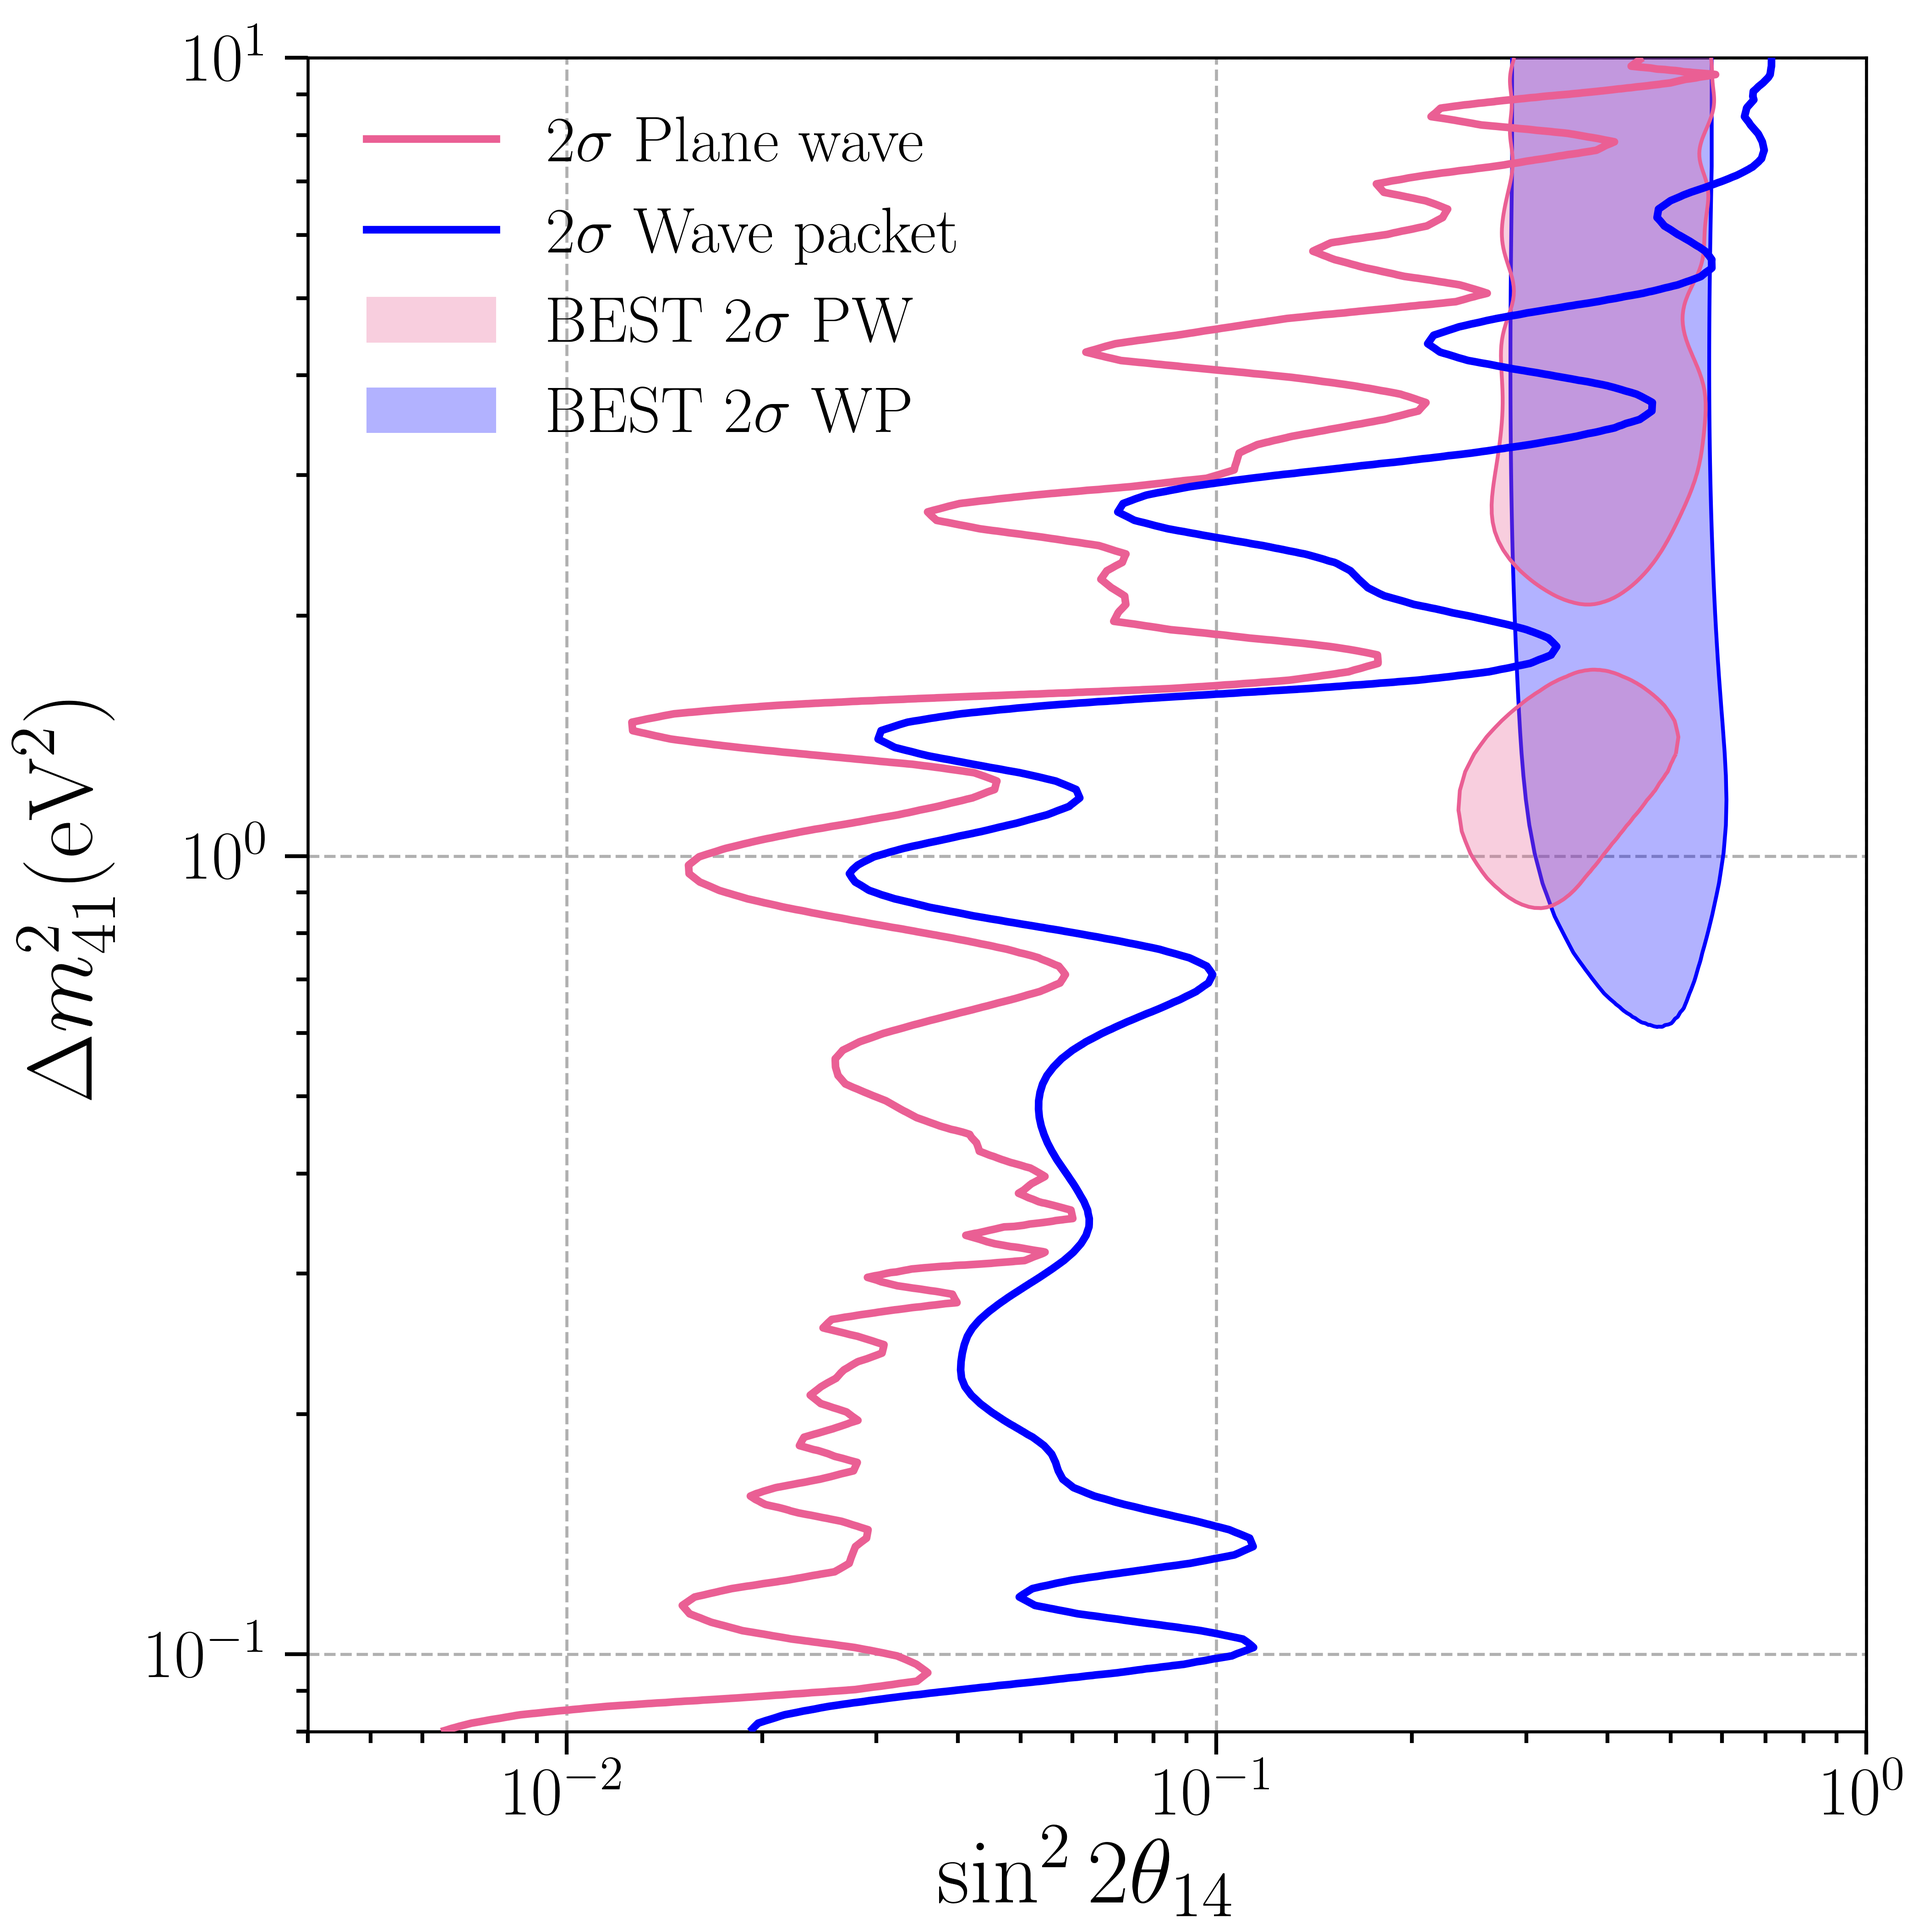
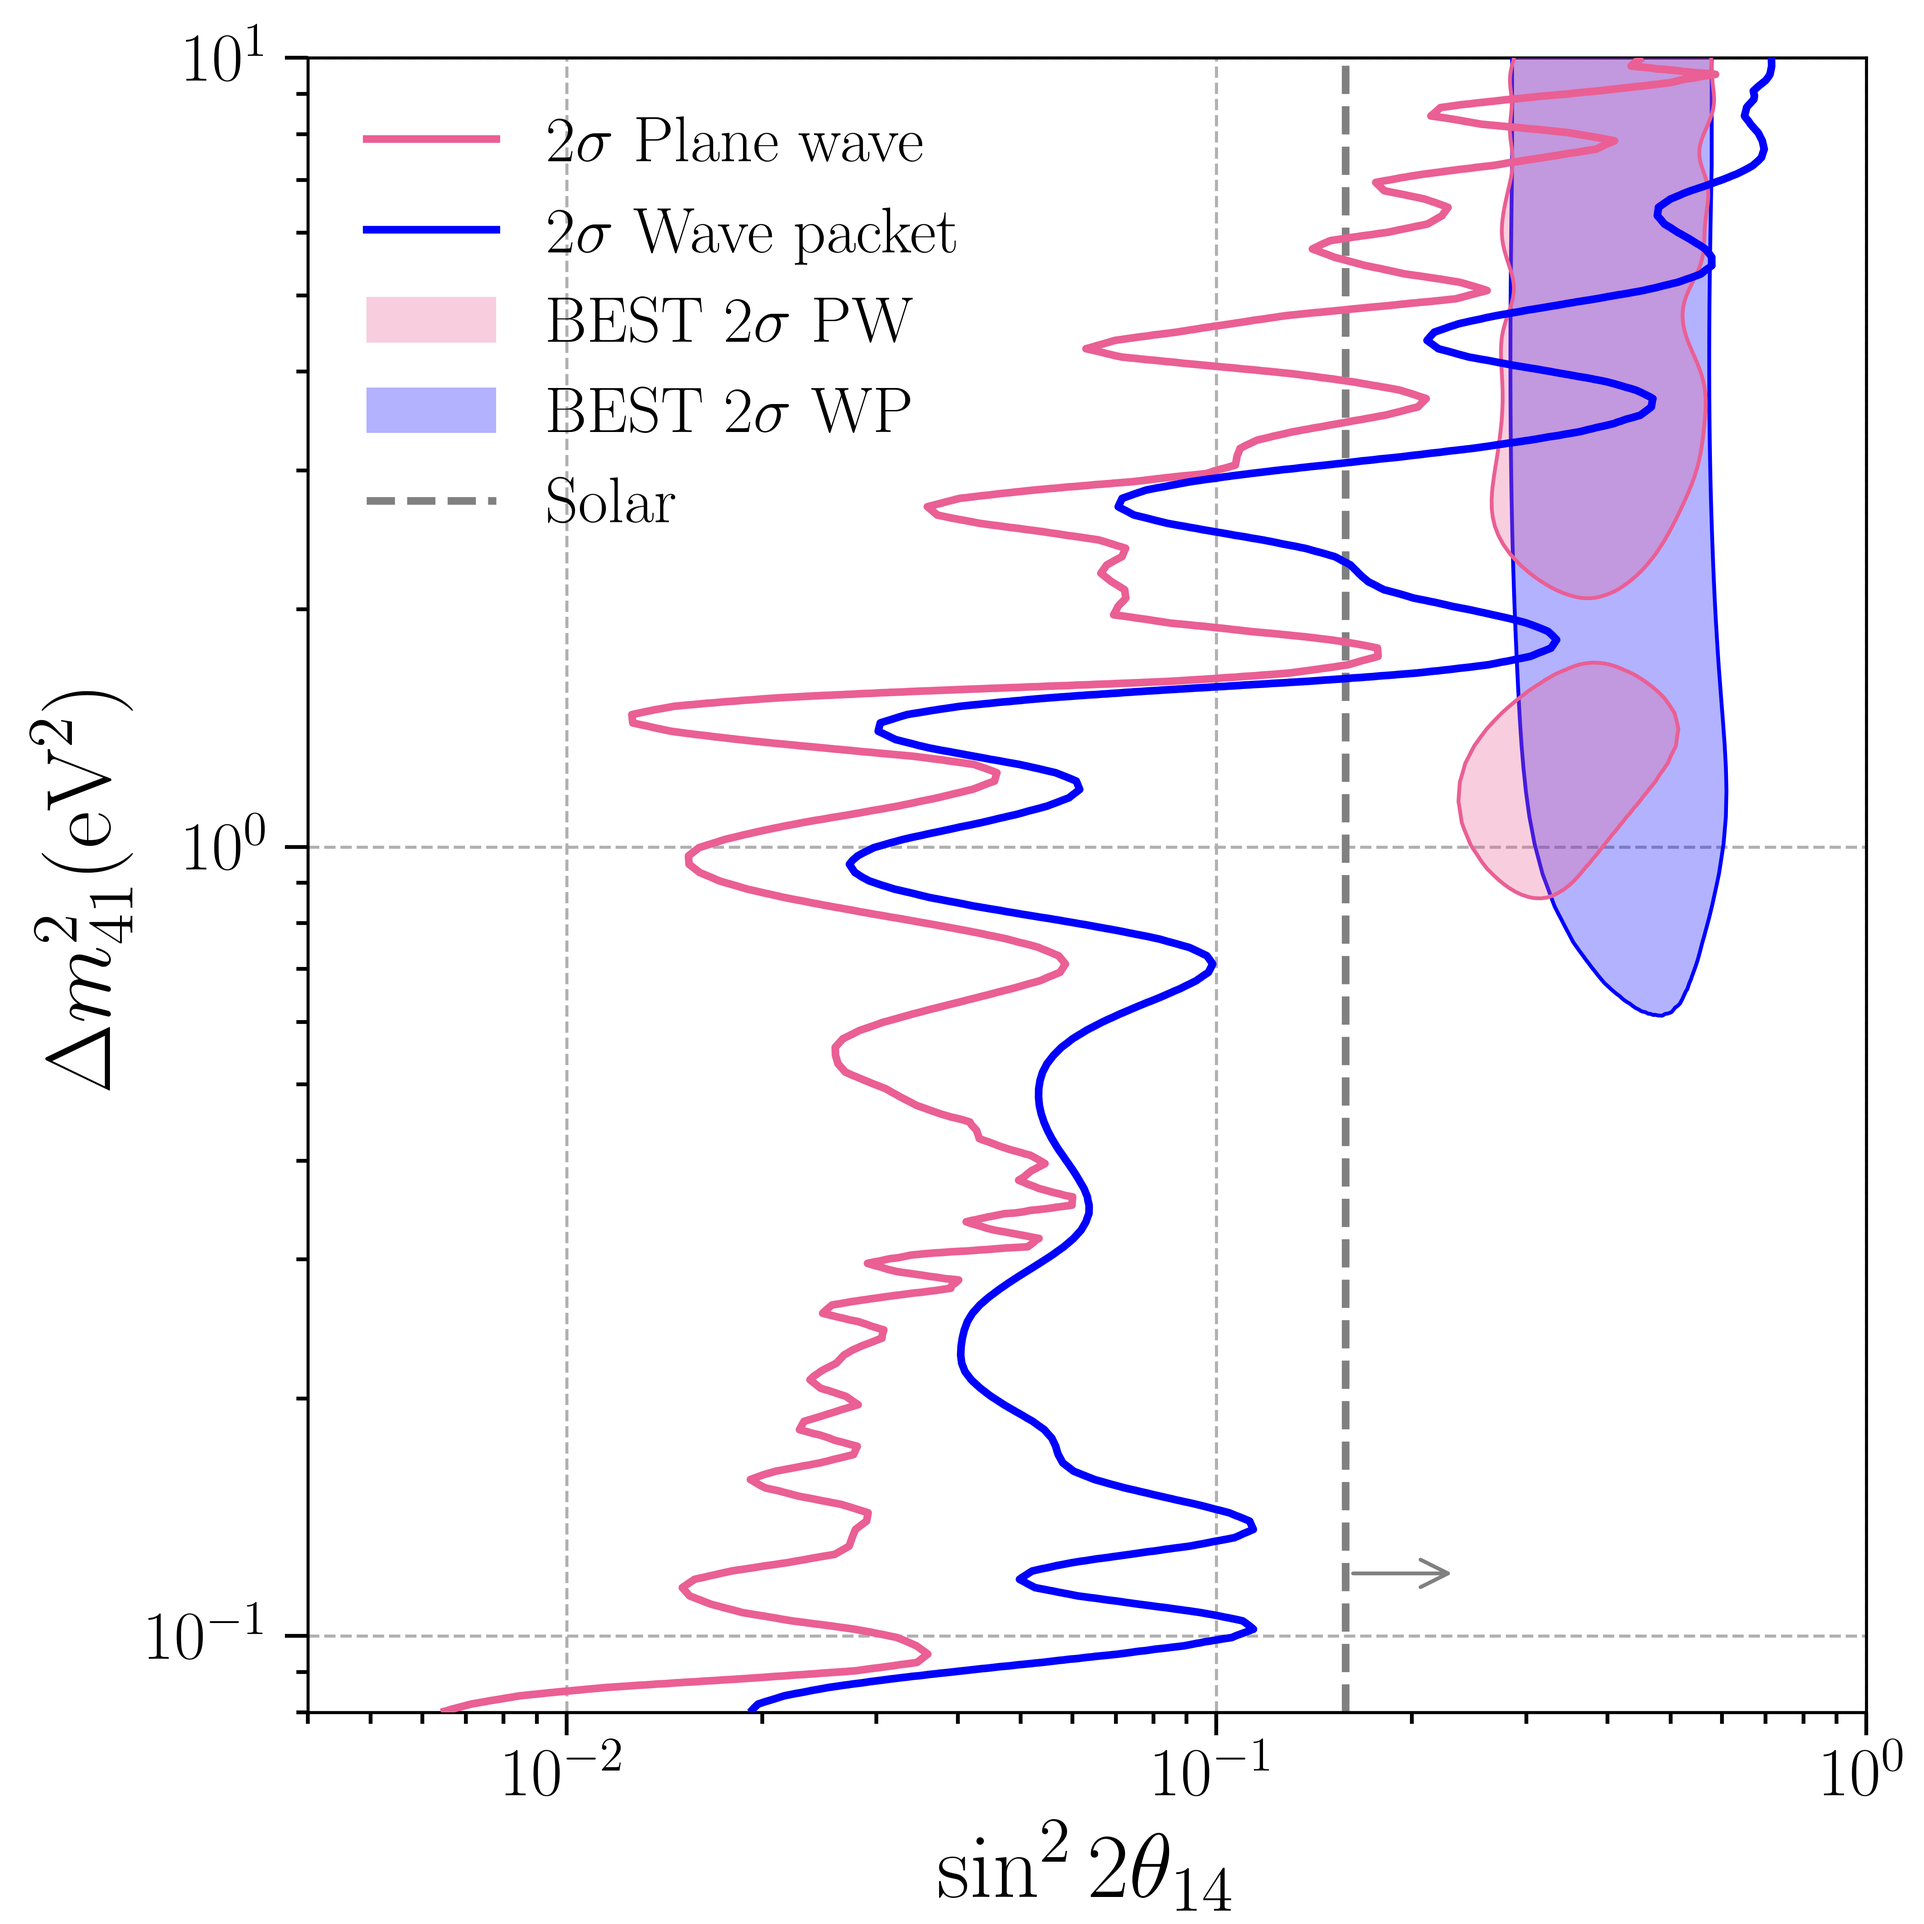
Added solar bounds to all fit.

diff --git a/Misc/SuperFitPlots.py b/Misc/SuperFitPlots.py
@@ -98,7 +98,7 @@ def stylize(axxis,contours,t_ax = [1e-3,1], m_ax = [1e-2,10]):
     axxis.tick_params(axis='y')
     axxis.set_xscale('log')
     axxis.set_yscale('log')
-    axxis.set_ylabel(r"$\Delta m^2_{41} (\text{eV}^2)$", fontsize = 24)
+    axxis.set_ylabel(r"$\Delta m^2_{41} (\textrm{eV}^2)$", fontsize = 24)
     axxis.set_xlabel(r"$\sin^2 2 \theta_{14}$", fontsize = 24)
     axxis.set_xlim([4e-3,1])
     axxis.set_ylim([8e-2,10])
@@ -115,6 +115,16 @@ margins = dict(left=0.16, right=0.97,bottom=0.1, top=0.93)
 color1 = '#FFB14E'
 color2 = '#EA5F94'
 color3 = '#0000FF'
+
+# s90 = 0.0212
+# s99 = 0.0446
+# solar90 = np.sin(2*np.arcsin(np.sqrt(s90)))**2
+# solar99 = np.sin(2*np.arcsin(np.sqrt(s99)))**2
+
+# Solar bounds obtained from figure 1 of 2111.12530
+solar90 = 0.158 
+solar99 = 0.248
+# print(solar90,solar99)
 
 
 # -------------------------------------------------
@@ -148,7 +158,14 @@ chi2PS_PW = scipy.interpolate.griddata(pointsPS_PW, valuesPS_PW, (yy, xx), metho
 
 data_PW = np.vstack((yy.flatten(),xx.flatten(),(chi2GF_PW+chi2PS_PW).flatten())).transpose()
 
-# print(data_chi2)
+print(data_PW)
+# print(x.shape)
+
+file = open('AllFitPointsPW.dat','w')
+for i in range(x.shape[0]):
+    for j in range(y.shape[0]):
+        file.write('{0:1.8f},{1:1.6f},{2:7.4f}\n'.format(data_PW[i+200*j,0],data_PW[i+200*j,1],data_PW[i+200*j,2]))
+file.close()
 
 
 # We find which is the point with minimum chi2, i.e. our best fit.
@@ -174,7 +191,7 @@ axBF.scatter(bestfit[1],bestfit[0],marker = '+', label = r'Best fit')
 
 stylize(axBF,conts)
 
-figBF.suptitle(r'Best fit:  $\Delta m^2_{41} = %.2f \text{ eV}^2$, $\sin^2 2\theta_{14} = %.3f$. Total $\chi^2 = %.2f$'%(bestfit[0],bestfit[1], bestfit[2]), fontsize = titlesize)
+figBF.suptitle(r'Best fit:  $\Delta m^2_{41} = %.2f \textrm{ eV}^2$, $\sin^2 2\theta_{14} = %.3f$. Total $\chi^2 = %.2f$'%(bestfit[0],bestfit[1], bestfit[2]), fontsize = titlesize)
 figBF.savefig(plotdir+'PWContour_bestfit.png')
 
 
@@ -225,6 +242,12 @@ chi2PS_WP = scipy.interpolate.griddata(pointsPS_WP, valuesPS_WP, (yy, xx), metho
 
 data_WP = np.vstack((yy.flatten(),xx.flatten(),(chi2GF_WP+chi2PS_WP).flatten())).transpose()#
 
+file = open('AllFitPointsWP.dat','w')
+for i in range(x.shape[0]):
+    for j in range(y.shape[0]):
+        file.write('{0:1.8f},{1:1.6f},{2:7.4f}\n'.format(data_WP[i+200*j,0],data_WP[i+200*j,1],data_WP[i+200*j,2]))
+file.close()
+
 # We find which is the point with minimum chi2, i.e. our best fit.
 min_index = np.where((data_WP[:,2] == np.min(data_WP[:,2])))[0][0]
 print(min_index)
@@ -249,7 +272,7 @@ axBF.scatter(bestfit[1],bestfit[0],marker = '+', label = r'Best fit')
 
 stylize(axBF,conts)
 
-figBF.suptitle(r'Best fit:  $\Delta m^2_{41} = %.2f \text{ eV}^2$, $\sin^2 2\theta_{14} = %.3f$. Total $\chi^2 = %.2f$'%(bestfit[0],bestfit[1], bestfit[2]), fontsize = titlesize)
+figBF.suptitle(r'Best fit:  $\Delta m^2_{41} = %.2f \textrm{ eV}^2$, $\sin^2 2\theta_{14} = %.3f$. Total $\chi^2 = %.2f$'%(bestfit[0],bestfit[1], bestfit[2]), fontsize = titlesize)
 figBF.savefig(plotdir+'WPContour_bestfit.png')
 
 
@@ -274,7 +297,7 @@ figNH.savefig(plotdir+'WPContour_nullhyp.png')
 # 2SIGMA PLOT COMPARISON
 # ----------------------------------------------
 
-margins = dict(left=0.16, right=0.97,bottom=0.1, top=0.97)
+margins = dict(left=0.16, right=0.97,bottom=0.11, top=0.97)
 fig_comp,ax_comp = plt.subplots(figsize = size, gridspec_kw = margins)
 # contBEST = ax_comp.plot(dataBEST1[:,0],dataBEST1[:,1], label = r'BEST $2\sigma$', color = color1, zorder = 2)
 # ax_comp.fill_between(dataBEST1[:,0],dataBEST1[:,1],10, alpha = 0.4, color = color1, zorder = 0, label = 'BEST+SAGE\n+GALLEX'+r' $2\sigma$')
@@ -293,11 +316,12 @@ cont_BEST_WP = ax_comp.tricontourf(dataBEST_WP[:,1],dataBEST_WP[:,0],(dataBEST_W
 cont_BEST_PW = ax_comp.tricontour(dataBEST_PW[:,1],dataBEST_PW[:,0],(dataBEST_PW[:,2]-bestfitBEST_PW[2]), levels = [6.18], colors = color2, linewidths = 1,zorder = 6.5)
 cont_BEST_WP = ax_comp.tricontour(dataBEST_WP[:,1],dataBEST_WP[:,0],(dataBEST_WP[:,2]-bestfitBEST_WP[2]), levels = [6.18], colors = color3, linewidths = 1,zorder = 5.5)
 
-# cont_BEST_PW.collections[0].set_label(r'B+S+G $2\sigma$ PW')
-# cont_BEST_WP.collections[0].set_label(r'B+S+G $2\sigma$ WP')
+cont_BEST_PW.collections[0].set_label(r'B+S+G $2\sigma$ PW')
+cont_BEST_WP.collections[0].set_label(r'B+S+G $2\sigma$ WP')
 
 proxy = [plt.Line2D([0], [0], color=color2, lw=2), plt.Line2D([0], [0], color=color3, lw=2),
-         plt.Rectangle((0.1,0.1),0.8,0.8,fc = color2, alpha = 0.3),plt.Rectangle((0.1,0.1),0.8,0.8,fc = color3, alpha = 0.3)]
+         plt.Rectangle((0.1,0.1),0.8,0.8,fc = color2, alpha = 0.3),plt.Rectangle((0.1,0.1),0.8,0.8,fc = color3, alpha = 0.3),
+         plt.Line2D([0],[0], color = 'gray', ls = 'dashed', lw = 2)]
 
 # ax_comp.annotate('DB+NEOS', xy = (1.25e-3,5), size = 42)
 ax_comp.grid(linestyle = '--')
@@ -305,12 +329,17 @@ ax_comp.tick_params(axis='x')
 ax_comp.tick_params(axis='y')
 ax_comp.set_xscale('log')
 ax_comp.set_yscale('log')
-ax_comp.set_ylabel(r"$\Delta m^2_{41} (\text{eV}^2)$", fontsize = 24)
+ax_comp.set_ylabel(r"$\Delta m^2_{41} (\textrm{eV}^2)$", fontsize = 24)
 ax_comp.set_xlabel(r"$\sin^2 2 \theta_{14}$", fontsize = 24)
 ax_comp.set_xlim([4e-3,1])
 ax_comp.set_ylim([8e-2,10])
+
+ax_comp.vlines(solar90,0.08,10,colors='gray',linestyles = 'dashed')
+# ax_comp.vlines(solar99,0.08,10,colors='gray',linestyles = 'dotted')
+ax_comp.annotate("", xy=(solar90*1.5,1.2e-1), xytext=(solar90,1.2e-1),arrowprops=dict(arrowstyle="->", color = 'gray', lw = 1), zorder = 101)
+
 ax_comp.legend(loc = 'upper left', fontsize = 18)
-ax_comp.legend(proxy,[r'$2\sigma$ Plane wave',r'$2\sigma$ Wave packet',r'BEST $2\sigma$ PW',r'BEST $2\sigma$ WP'],loc = 'upper left', fontsize = 17)
+ax_comp.legend(proxy,[r'$2\sigma$ Plane wave',r'$2\sigma$ Wave packet',r'BEST $2\sigma$ PW',r'BEST $2\sigma$ WP', 'Solar'],loc = 'upper left', fontsize = 17)
 
 fig_comp.savefig(plotdir+'ContourComparison.pdf')
 fig_comp.savefig(plotdir+'ContourComparison.png')
